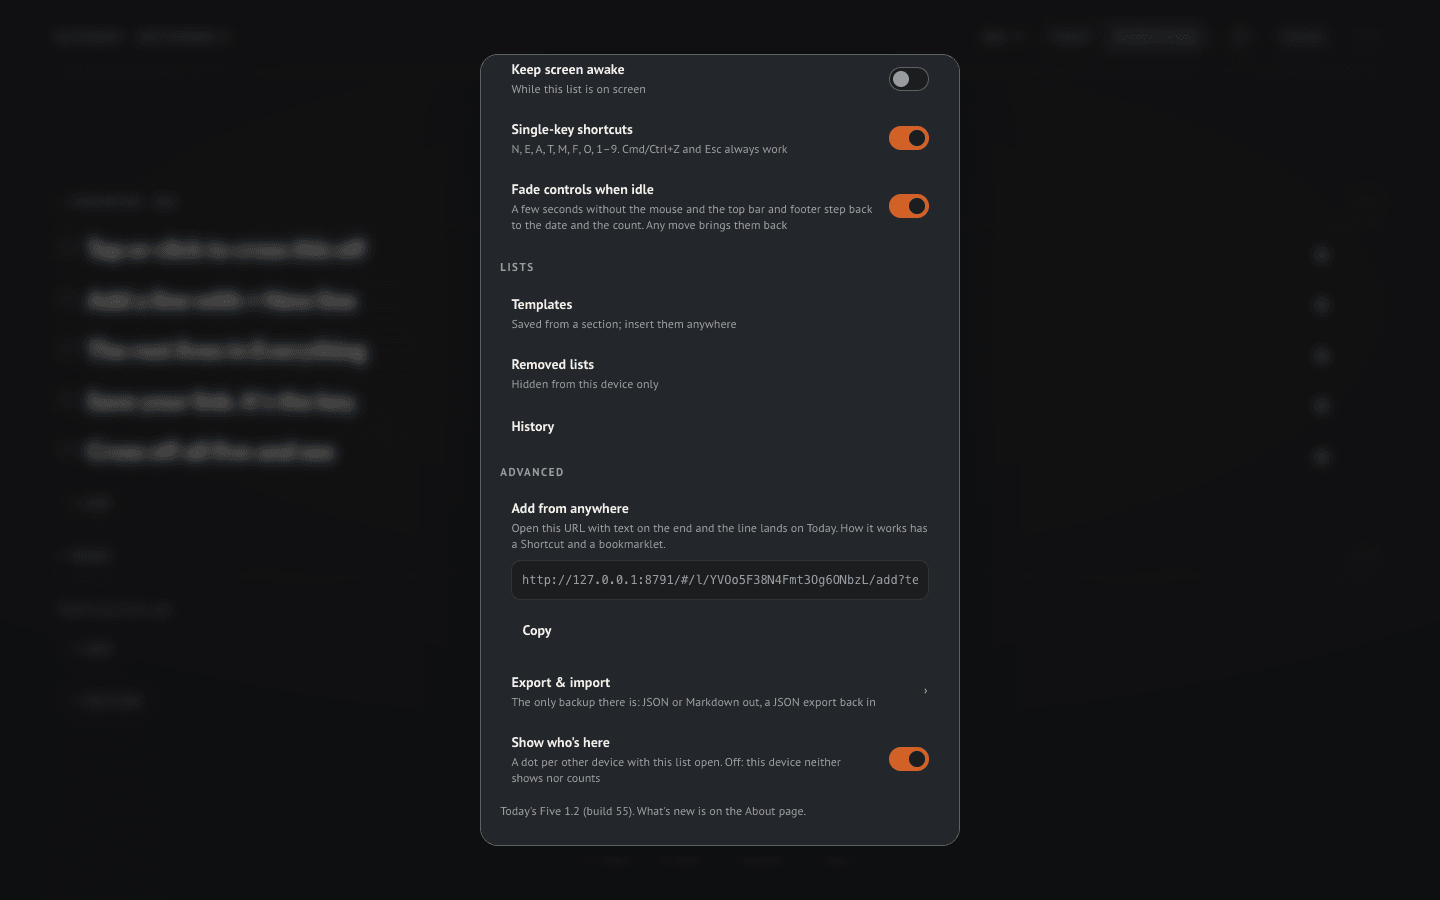
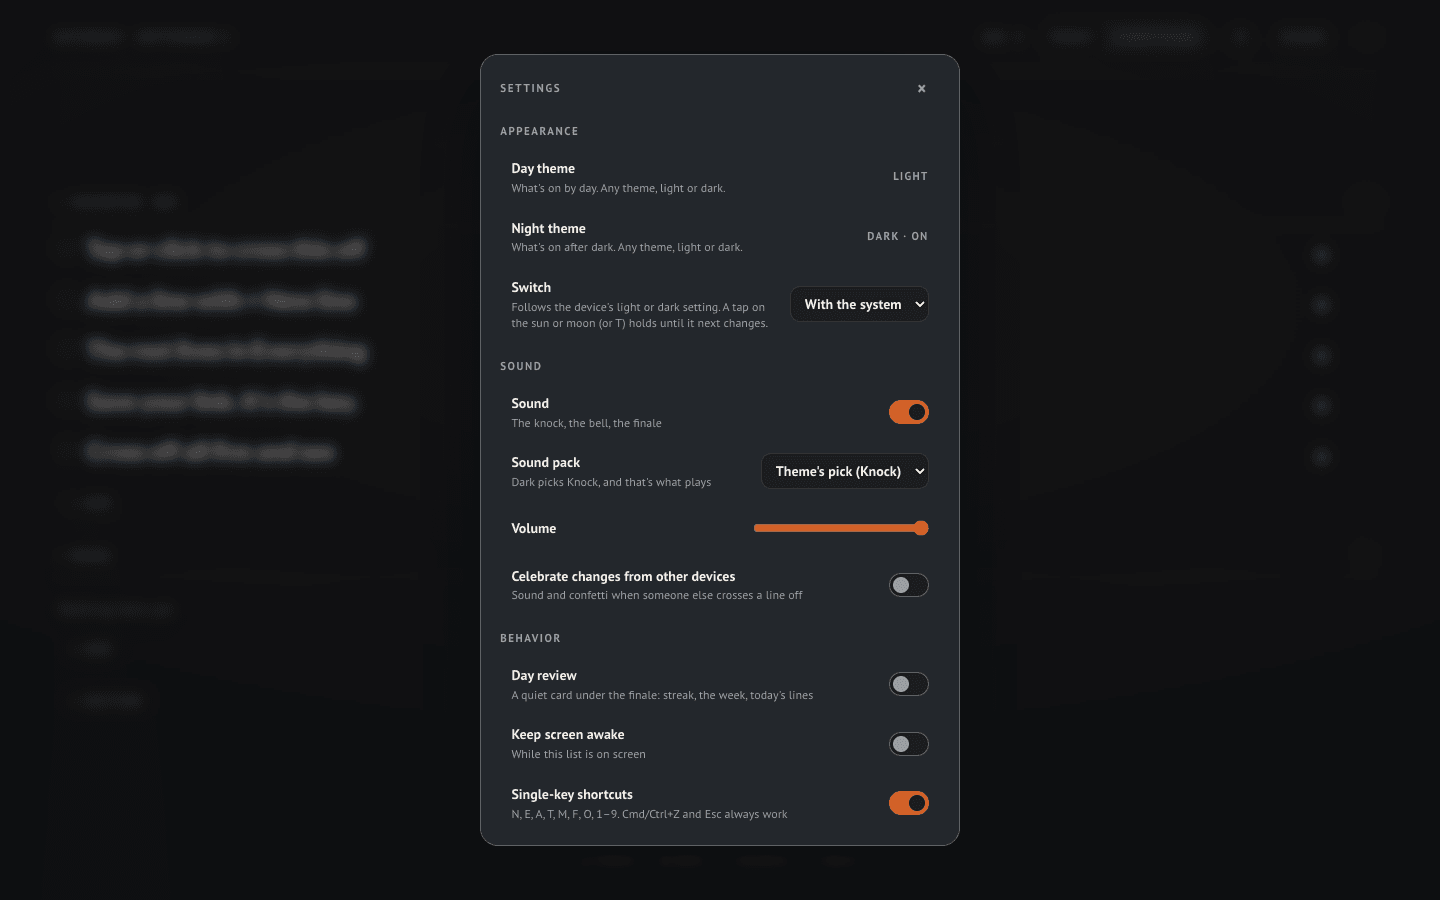
1.2: the after set caught two things — the rows' own colour transitions trailed the crossfade (pale text on a pale ground for a beat), so a fading class on the body turns them off until the fade lands; a closed sheet keeps its scroll position, so ⋯ → Theme reopened Settings wherever it was left inst

diff --git a/tools/e2e4.js b/tools/e2e4.js
@@ -747,8 +747,10 @@ for (const [label, opts, touch] of VIEWPORTS) {
     assert.ok(midState.fading, "a crossfade is running"); assert.equal(midState.theme, "light", "the theme is already the incoming one (its kit plays)");
     assert.ok(mid !== INK.dark && mid !== INK.light, "the ink is in between mid-flip: " + mid);
     assert.ok(await t.page.$eval("#glow", e => +getComputedStyle(e).opacity < 0.6), "the glow dips through the flip");
+    assert.ok(await t.page.evaluate(() => document.body.classList.contains("fading")), "the rows' own colour transitions are off while the tokens move");
+    assert.equal(await t.page.$eval("#list .row", e => getComputedStyle(e).color), await t.page.evaluate(() => getComputedStyle(document.body).color), "the row text is at the token, not trailing it");
     await wait(600);
-    assert.equal(await inkOf(t.page), INK.light, "Day = Light at the end"); assert.ok(!(await t.s()).fading);
+    assert.equal(await inkOf(t.page), INK.light, "Day = Light at the end"); assert.ok(!(await t.s()).fading); assert.ok(!(await t.page.evaluate(() => document.body.classList.contains("fading"))), "transitions are back once it lands");
     assert.equal((await t.s()).stats.tick, tick0 + 1, "the incoming theme's soft tick played");
     assert.equal(await t.page.$eval("#daynight", e => e.dataset.next + "|" + e.title + "|" + e.getAttribute("aria-label")), "night|Night · T|Switch to night", "the glyph now offers Night");
     assert.equal(await t.page.$eval("html", e => e.dataset.base + "/" + e.dataset.theme), "light/light"); assert.equal(await t.page.$eval('meta[name="theme-color"]', e => e.content), INK.light, "theme-color follows the slot's theme");
@@ -900,9 +902,10 @@ for (const [label, opts, touch] of VIEWPORTS) {
     await t.page.keyboard.press("t"); await wait(600); assert.notEqual((await t.s()).slot, s0, "T flips");
     await t.page.keyboard.press("Shift+T"); await t.page.waitForSelector("#p-settings[open]");
     assert.equal(await t.page.$eval("#p-settings h3", e => e.textContent), "Appearance"); assert.equal((await t.s()).slot, s0 === "day" ? "night" : "day", "Shift+T does not flip");
-    await t.page.keyboard.press("Escape"); await wait(200);
-    await t.press("#more"); await t.page.click('#p-menu [data-act="theme"]'); await t.page.waitForSelector("#p-settings[open]");
+    await t.page.$eval("#p-settings .body", e => { e.scrollTop = e.scrollHeight; }); await t.page.keyboard.press("Escape"); await wait(200); // leave Settings scrolled to the bottom
+    await t.press("#more"); await t.page.click('#p-menu [data-act="theme"]'); await t.page.waitForSelector("#p-settings[open]"); await wait(150);
     assert.equal(await t.page.locator("#p-theme[open]").count(), 0, "the ⋯ row goes to Appearance, not straight to the picker");
+    assert.equal(await t.page.$eval("#p-settings .body", e => e.scrollTop), 0, "and Appearance is what shows: the sheet opens at its top, wherever it was left");
     assert.equal(await t.page.textContent("#menu-theme-k"), "Light", "the ⋯ row still names the theme that is on");
     await t.page.keyboard.press("Escape");
     await t.close();

diff --git a/app.js b/app.js
@@ -171,7 +171,7 @@ function applyThemeCode(code, { crossfade = false } = {}) {
   paintDayNight();
   dispatchEvent(new CustomEvent("tf:theme"));
 }
-function stopFade() { if (!fadeRaf) return; cancelAnimationFrame(fadeRaf); fadeRaf = 0; const g = $("#glow"); g.style.transition = ""; g.style.opacity = ""; }
+function stopFade() { if (!fadeRaf) return; cancelAnimationFrame(fadeRaf); fadeRaf = 0; const g = $("#glow"); g.style.transition = ""; g.style.opacity = ""; document.body.classList.remove("fading"); }
 /** The whole palette crossfades from one slot's theme to the other's: the colour tokens interpolated in OKLab over
     about 400 ms, the fonts, gradients and shadows swapped at the midpoint, the glow dipping through it. Instant
     under prefers-reduced-motion (applyThemeCode never gets here then). */
@@ -181,12 +181,13 @@ function crossfadeTo(prev, next) {
   const t0 = performance.now();
   const ease = p => (p < 0.5 ? 2 * p * p : 1 - Math.pow(-2 * p + 2, 2) / 2);
   glow.style.transition = "opacity .2s ease"; glow.style.opacity = "0";
+  document.body.classList.add("fading"); // the rows' own colour transitions would trail the tokens (styles.css)
   let swapped = false;
   const step = now => {
     const p = Math.min(1, (now - t0) / FADE_MS);
     if (p >= 0.5 && !swapped) { swapped = true; root.dataset.base = next.base; root.dataset.theme = next.id; glow.style.opacity = ""; }
     if (p < 1) { T.setTokenCss(style, T.cssTextBetween(prev, next, ease(p))); fadeRaf = requestAnimationFrame(step); }
-    else { fadeRaf = 0; glow.style.transition = ""; T.applyTheme(next); }
+    else { fadeRaf = 0; glow.style.transition = ""; T.applyTheme(next); document.body.classList.remove("fading"); }
   };
   fadeRaf = requestAnimationFrame(step);
 }
@@ -1510,6 +1511,7 @@ function showPanel(id, { anchor = null } = {}) {
   const pop = !!anchor && !sheetUi() && anchor.isConnected;
   d.classList.toggle("pop", pop); d.style.left = ""; d.style.top = "";
   if (!d.open) d.showModal();
+  const body = d.querySelector(".body"); if (body) body.scrollTop = 0; // a sheet opens at its top, whatever it was scrolled to when it closed (⋯ → Theme must land on Appearance)
   if (pop) {
     const r = anchor.getBoundingClientRect(), w = d.offsetWidth, h = d.offsetHeight;
     const left = Math.max(8, Math.min(innerWidth - w - 8, r.right - w));

diff --git a/styles.css b/styles.css
@@ -634,6 +634,9 @@ body.install-on #toast,body.install-on #whatsnew{bottom:calc(96px + env(safe-are
 #daynight{display:inline-grid;place-items:center;padding:.45em .6em}
 #daynight svg{width:15px;height:15px;display:block;fill:none;stroke:currentColor;stroke-width:1.9;stroke-linecap:round;stroke-linejoin:round}
 #daynight[data-next="night"] .sun,#daynight[data-next="day"] .moon{display:none}
+/* while the palette crossfades, the tokens move every frame: the rows' and chips' own colour transitions would trail them
+   (pale text on a pale ground for a beat), so they are off until the fade lands; the glow keeps its inline dip */
+body.fading *:not(#glow),body.fading .dot::before{transition-property:none !important}
 /* welcome: no rail, no footer */
 body.welcome .rail,body.welcome #foot{display:none}
 /* idle fade (desktop): the rail and the footer step back to the date and the count; the presence dots stay */

diff --git a/panels.js b/panels.js
@@ -76,6 +76,7 @@ function choose(code, name, partner, swatch) {
   offer = partner && A.slotCode(other) !== partner.code ? { ...partner, slot: other } : null;
   renderSwatches();
   if (group) group.after($("#partner-offer")); // the chip sits under the group the choice came from
+  if (offer) { try { $("#partner-offer").scrollIntoView({ block: "nearest" }); } catch (e) { /* ignore */ } } // and on screen, on a phone too
   A.toast(`${name} for ${cap(pickSlot)}`);
 }
 function paintOffer() {

diff --git a/PLAN.md b/PLAN.md
@@ -675,4 +675,15 @@ first change and after the last. Before is the left of each pair.
 
 What was actually run, and what it found.
 
-__RESULTS_TABLE__
+| suite | result |
+|---|---|
+| Node `test/theme.test.js` | 24 pass: 1.1's fourteen, plus every kit leaning day or night with a partner that names it back and the seven designed pairs in order; the two new kits meeting the contrast floors and sharing their partner's font pair and engine; the partner of a theme you make (same accent and pack, flipped base, a chosen pair kept and an automatic one re-picked, round-tripping to the original palette) with curated and `T2:` codes unchanged; the migration of a by-hand device (the theme in the slot matching its base, the partner or the default in the other, the old keys untouched, run once), of Follow system (both slots carried, the theme on screen unchanged on a dark and on a light system) and of the schedule (themes and times carried, the clock deciding as before, a schedule that wraps midnight); a fresh device's defaults; the hold rule under the system and under a schedule (a manual flip holds until the automation next switches, flipping back holds nothing, by hand nothing is held); the switch (off keeps what is on, on forgets a hold, an unknown mode is ignored); the crossfade's interpolation (perceptual midpoints, rgba hairlines, the swap at the midpoint, one token each) |
+| Node `test/features.test.js` | 20 pass: 1.1's, with what's-new firing for a 1.1 device and for a 1.0 device on the 1.2 headline and never on version numbers; the changelog schema — 1.0 and later only, a one-sentence headline of twelve words or fewer, one to three items tagged New, Improved or Fixed of fourteen words or fewer, none of the banned words, `CHANGELOG.md` holding every version with no dates; the version in three places and the build in two |
+| Node `test/compat.test.js` | 7 pass: 1.1's six, plus a saved theme's `partner` field through the frozen v3 model (stripped by the old client, kept by normalize, the richer record winning the tie on the way back) |
+| Node `test/model.test.js`, `crypto.test.js`, `sync.test.js`, `sound.test.js` | 22, 9, 13 and 8 pass, untouched (the pinned derivation vectors included) |
+| Browser suite `tools/e2e4.js` (Chrome 152, local transport, 1440×900 mouse and 390×844 touch, a dark system unless a test says otherwise) | __E2E__: everything 1.1 checked, updated for the model (the rail with the sun/moon between the views and Share, 44 px on touch; `T` flipping instead of opening the picker; Appearance's three rows and the Switch select in place of the two toggles; the builder reached through Appearance → Night theme; a 1.0 device's toast being the 1.2 headline; About's version and tagged changelog with a styled version line), plus 1.2's own: the flip crossfading the whole palette (an in-between ink mid-flip, the glow dipping, the rows' transitions off and the text at the token, the incoming theme's tick counted, the glyph and tooltip flipped, `theme-color` and the boot cache following, the fonts swapping at the midpoint on a Paper day; instant under reduced motion); With the system by an emulated colour scheme (the hold, its survival of a reload, its end when the system changes, the automation resuming, the Switch row's wording, By hand keeping what is on and ignoring the system); On a schedule by Playwright's clock (the minute tick switching at 16:31, a manual flip holding through the evening and spent at the schedule's own switch the next morning, the automation resuming); the picker for one slot (the groups in pair order, the tags, the marked swatch, a night kit chosen for Day, "Use Paper for Night" under the group it came from and applied in one tap, nothing offered when the other slot already holds the partner, the slot's theme staying on when the picker closes, Settings → Sound naming the slot's theme's pack); the builder (Make its partner saving two linked records with the chosen pair kept and the base flipped, filling the slot and offering the partner, a second press finding the link instead of saving a third, a saved theme chosen from Yours offering its partner); `T`, `Shift+T` and ⋯ → Theme (Appearance at its top, wherever Settings was left); a 1.1 device's three migrations (Follow system with the theme on screen unchanged and the old keys left in place, the schedule with its times, by hand with the partner in the other slot) with the toast the only new thing and no hint, sheet or sound; a fresh device on a light system painting Light from the first frame; zero page errors, CSP violations and third-party requests |
+| Real Supabase `tools/realsync4.js` | 6 pass, the suite unchanged: envelopes on the wire, a view link's put refused, the unchanged poll still **29 bytes**, presence, delete and undo, add from a URL; the seed list 617 bytes encrypted, the realistic list 6,549 bytes |
+| Lighthouse 12 (Chrome 152, gzip like GitHub Pages, the same harness and machine for both, an untouched clone of `main` as the 1.1 baseline, two rounds each) | __LIGHTHOUSE__ |
+| Sizes on the critical path (gzip) | `styles.css` 9.2 KB (1.1: 8.8), `app.js` 35.5 KB (34.2), `index.html` 9.1 KB (8.4, the light tokens for the first frame and the new markup), `theme.js` 12.4 KB (8.9, two kits and the slot logic); off the critical path `panels.css` 4.0 KB (3.9) and `panels.js` 16.4 KB (14.9). Lighthouse's mobile page weight 146 KB against 140 |
+| Live check, a 1.1 device | __LIVE_11__ |
+| Live check, a fresh device | __LIVE_FRESH__ |

diff --git a/DECISIONS.md b/DECISIONS.md
@@ -313,6 +313,8 @@ Calls made where the 1.2 brief left things open. The design is in PLAN.md, "Toda
 - **The partner is an offer, not an automatic fill**, for curated kits and for Make its partner alike: choosing a theme for a slot shows "Use ⟨partner⟩ for ⟨other slot⟩" under the group the choice came from; nothing happens to the other slot until it is tapped. Make its partner saves the theme you were building (asking for a name if it has none), saves the partner linked to it through the additive `partner` field on both records, fills the slot you were filling with the theme itself, and offers the partner for the other slot like any other. The partner is named "⟨name⟩ · day" or "⟨name⟩ · night"; a pair you chose by hand is kept, an automatic one is picked again for the new base.
 - **`partner` links saved records by id, both ways, and a deleted partner just stops showing.** The other record keeps a dangling id (rewriting it would cost an old client nothing and gain nothing); the picker looks the link up in both directions and ignores tombstones. `T2:` codes carry no partner: the relationship is between saved themes, never part of a code, so every device reads every code as before. The frozen v3 model strips the field and the richer record wins the tie on the way back, as the compatibility test shows.
 - **The ⋯ row keeps the label "Theme"** with the theme that is on as its state, and opens Appearance; Settings' Appearance rows say "Light · on" beside the slot that is showing. `T` flips; `Shift+T` opens Appearance; both obey the single-key-shortcuts switch.
+- **A sheet opens at its top.** A closed `<dialog>` keeps the scroll position it was closed at, so ⋯ → Theme on a Settings sheet last left at Advanced reopened it at Advanced, with Appearance out of sight (the after screenshots caught it). `showPanel` now resets the body's scroll after `showModal()`, for every panel; the two callers that scroll to a section (How it works, Lists → Removed) do so afterwards, as before.
+- **The rows' own colour transitions are off while the palette crossfades.** `.row` (and the chips, the tabs, the checkbox) transition their colours over 0.2–0.3 s; with the tokens moving every frame those transitions trailed the fade, and for a beat after it landed the text was pale on a pale ground (the first after set caught that too). A `fading` class on the body turns `transition-property` off for everything but the glow's own dip until the fade lands; nothing jumps at the end because the tokens are already there.
 - **The footers did not change.** Neither footer ever named T (Today: 1–n, N, E, ?; Everything: A, N, /, ?), so there was nothing to update; the `?` reference and How it works carry the new keys and the model.
 - **The what's-new toast keeps its "New in 1.2:" prefix** in front of the headline; the button reads "What's new" and opens the About changelog.
 - **The About page's version line and changelog rules moved into `styles.css`.** They had lived in `panels.css`, which About never loads, so the version line rendered as body text since 1.1; the tagged changelog needed real styles, and About's only stylesheet is the right home.
